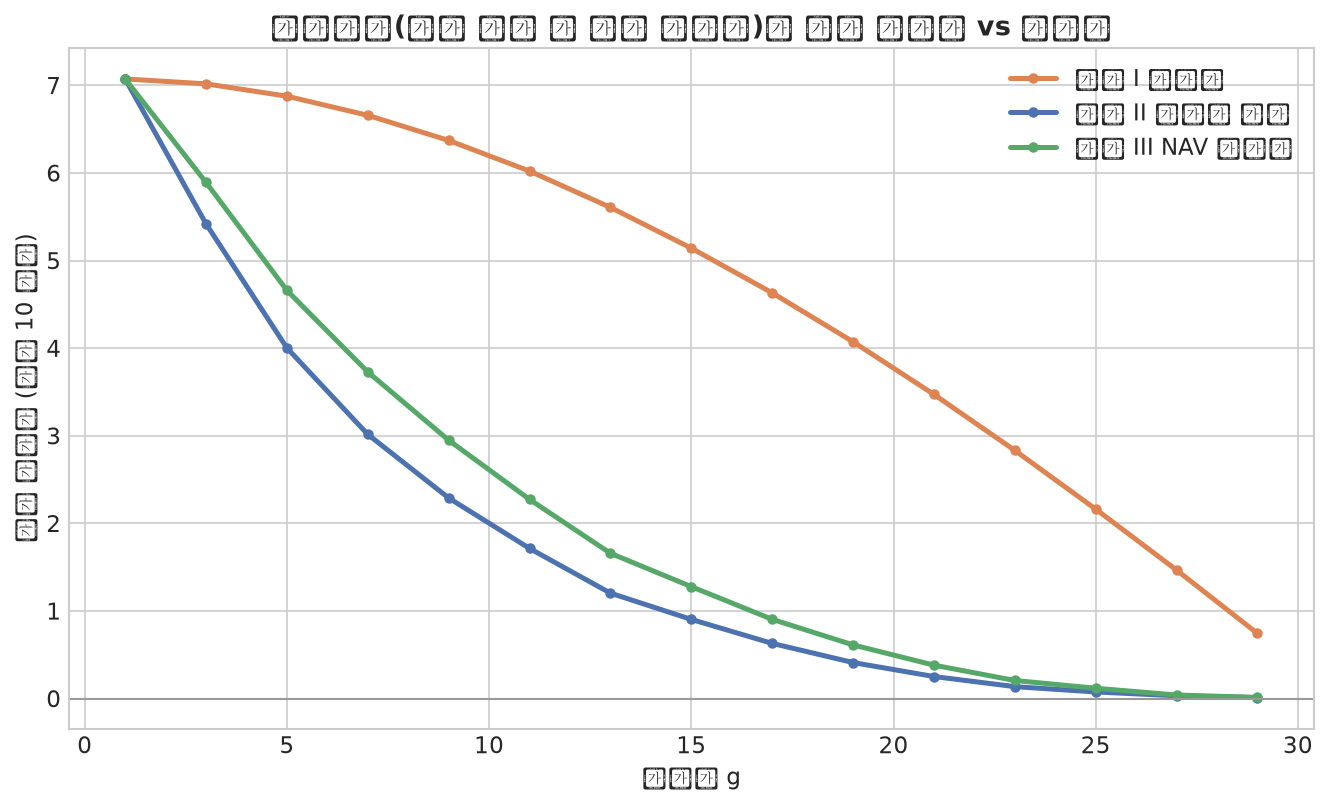
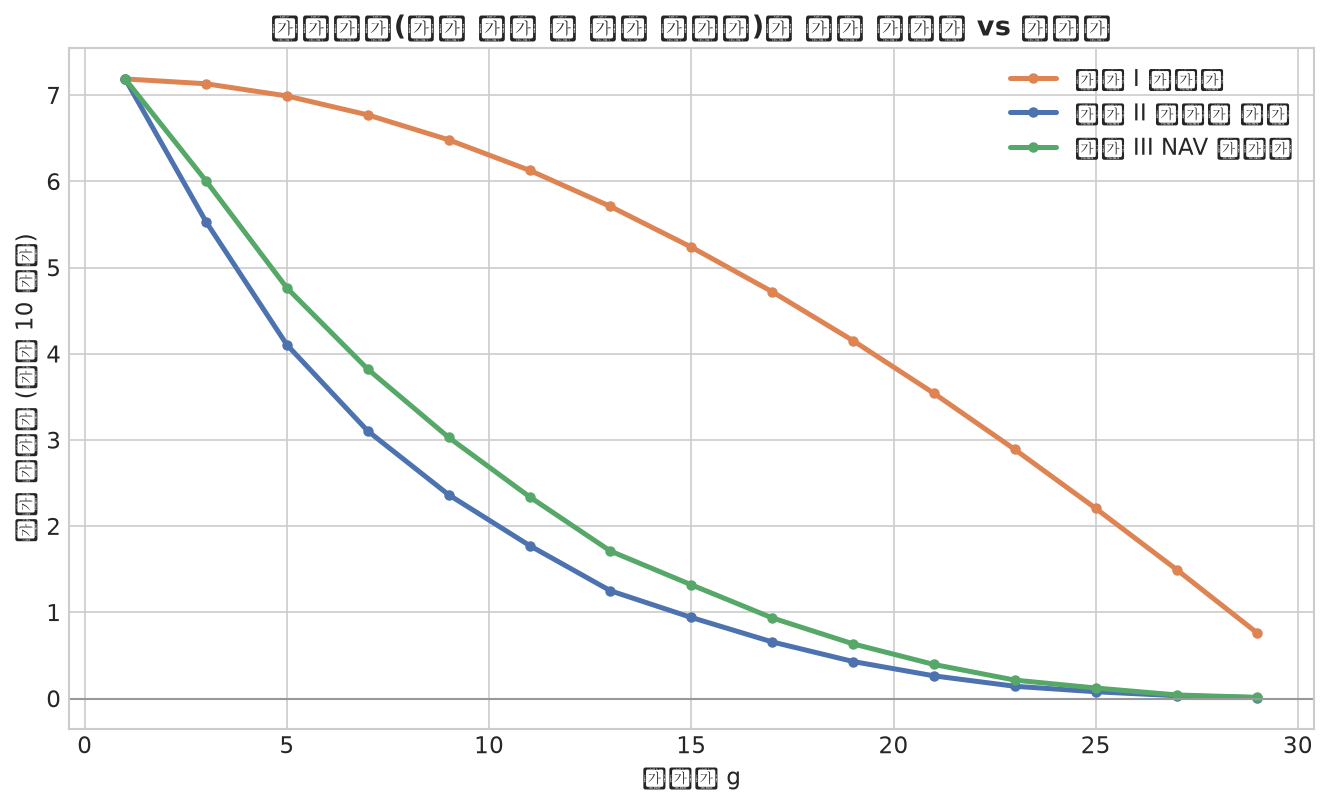
docs: ver4 시뮬레이터 alpha 0.3 -> 0.2 확정값 반영, 그래프 재생성
- mc_entry_timing / fig_donation_trap 기본 alpha를 확정값 0.2로
- v4 그래프 4장 + sim_output_ver4.txt 재생성
- 02_VER4_DESIGN 비교표·희석 수치 갱신, 구 배너 삭제

diff --git a/docs/정산_프로토타입/03_시뮬레이터/godsaeng_sim_v4.py b/docs/정산_프로토타입/03_시뮬레이터/godsaeng_sim_v4.py
@@ -141,7 +141,7 @@ def settle_v4(players, D, alpha, design):
 
 
 # ================================================================ 고속 MC (스나이퍼 1명, 2버킷 빈티지)
-def mc_entry_timing(D=30, n_inc=8, stake=10.0, alpha=0.3,
+def mc_entry_timing(D=30, n_inc=8, stake=10.0, alpha=0.2,
                     base_h=0.06, decay=0.92, n_sims=600, seed=7):
     """
     기존 8인(확률적 탈락) + 절대 실패하지 않는 합류자(스나이퍼) 1명.
@@ -223,7 +223,7 @@ def mc_entry_timing(D=30, n_inc=8, stake=10.0, alpha=0.3,
 
 
 # ================================================================ 그래프
-def fig_donation_trap(D=30, alpha=0.3, stake=10.0):
+def fig_donation_trap(D=30, alpha=0.2, stake=10.0):
     gs = np.arange(1, D + 1)
     orig = [stake * retention(D - g + 1, D, alpha) for g in gs]   # 원기간 D 기준: 완주해도 r<1
     norm = [stake for _ in gs]                                     # 개인 정규화: 완주 = 전액

diff --git a/docs/정산_프로토타입/01_설계문서/02_VER4_DESIGN.md b/docs/정산_프로토타입/01_설계문서/02_VER4_DESIGN.md
@@ -8,7 +8,6 @@
 > 상태: 커브 시계 정규화는 **T-03**, 참여 마감선 τ는 **T-04**로 임시 규칙 채택 (DECISIONS.md §2).
 > 설계 II·III는 구현하지 않고 로드맵으로 유지.
 > **수치는 D-05(커브 인덱싱 `k = d−1`) + D-06(α = 0.2) 반영본으로 재실행한 값이다.**
-> 첨부 그래프(`04_그래프/v4_*.png`)는 α=0.3 시점 산출물이라 본문 수치와 소수점이 다르다 — 곡선의 부호·형태·순위는 동일하다.
 
 ---
 
@@ -108,7 +107,7 @@ $\rho$가 진짜 지표인 이유: 스나이퍼의 비용은 돈이 아니라 **
 
 | | $\Pi(1)$ | $\Pi(15)$ | $\Pi(29)$ | $\rho(1)$ | $\rho(15)$ | $\rho(29)$ | $\rho$ 최대 위치 |
 |---|---|---|---|---|---|---|---|
-| I 개방형 | 7.189 | 5.238 | 0.758 | 0.2396 | 0.3273 | **0.3792** | **$g=29$ (우상향)** |
+| I 개방형 | 7.189 | 5.237 | 0.758 | 0.2396 | 0.3273 | **0.3792** | **$g=29$ (우상향)** |
 | II 빈티지 | 7.189 | 0.941 | 0.011 | 0.2396 | 0.0588 | 0.0055 | $g=1$ (우하향) |
 | III NAV | 7.189 | 1.320 | 0.013 | 0.2396 | 0.0825 | 0.0067 | $g=1$ (우하향) |
 
@@ -174,7 +173,15 @@ $$\boxed{\;p(g) = \Delta(g^-)\,(D-g+1)\cdot\frac{s}{S + s}\;}$$
 
 ### 기존 참가자 희석 (MC)
 
-합류자 없는 기준선 19.410 대비, day 15 합류 시 기존 완주자의 기대 수령: I **17.607** (−1.803, 희석 최대) / III 18.779 (프리미엄이 대부분 보상) / II 19.085 (잔여 희석은 신규 스트림 공유분 — 합류자도 위험 풀에 서므로 정당한 몫이다).
+합류자 없는 기준선 **19.410** 대비, 기존 완주자의 기대 수령:
+
+| 합류 시점 $g$ | I 개방형 | II 빈티지 | III NAV |
+|---|---|---|---|
+| 1 | 17.114 | 17.114 | 17.114 |
+| 15 | **17.606** (−1.804) | 19.085 (−0.325) | 18.779 (−0.631) |
+| 29 | 19.130 (−0.280) | 19.406 (−0.004) | 19.403 (−0.007) |
+
+$g=1$ 행이 세 설계에서 동일한 것은 정의상 당연하다 — 동시 입장이면 배제할 "기존 스트림"도, 지불할 프리미엄도 없다. 차이는 $g$가 커질수록 벌어진다. day 15 기준으로 읽으면: I가 **−1.804로 희석 최대**, III는 18.779로 프리미엄이 대부분을 보상하고, II는 19.085로 잔여 희석이 가장 작다 (그 잔여분은 신규 스트림 공유분 — 합류자도 위험 풀에 서므로 정당한 몫이다).
 
 ![희석](../04_그래프/v4_3_incumbent_dilution.png)
 

diff --git a/docs/정산_프로토타입/README.md b/docs/정산_프로토타입/README.md
@@ -39,9 +39,6 @@
 같은 위치에 `figures/` 폴더가 생기고 10장이 자동 생성된다. 그 폴더 내용을 `04_그래프/`로 옮기면 설계문서의
 이미지 링크(`../04_그래프/파일명.png`)가 그대로 맞는다.
 
-> **현재 커밋된 그림은 α=0.3 시점 산출물이다.** 곡선의 부호·형태·순위는 D-05/D-06 반영 후에도 동일하지만,
-> 눈금 수치는 본문 표와 소수점이 다르다. 발표 자료에 쓸 때 재생성 여부를 판단할 것.
-
 ---
 
 ## 읽는 순서 (처음 보는 사람 기준)
